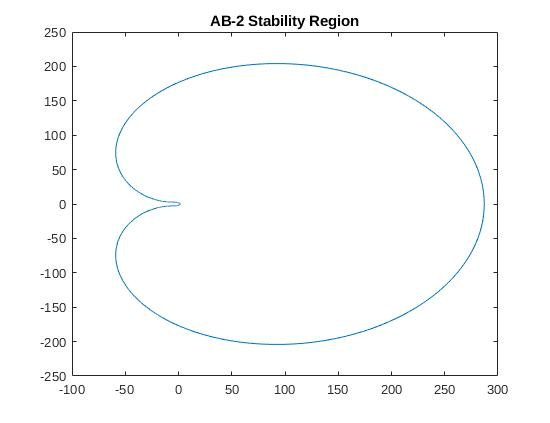
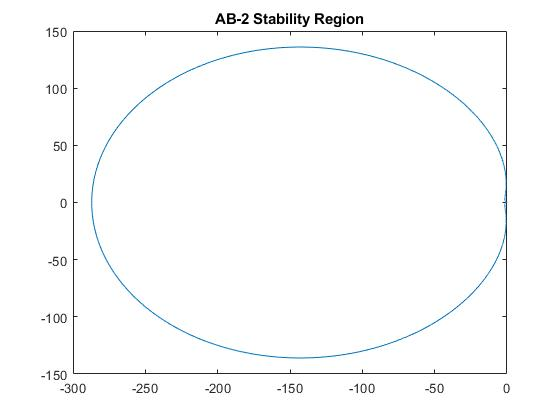
Resubmitted HW7

diff --git a/p7/p7.m b/p7/p7.m
@@ -1,27 +1,30 @@
 % Problem 7: Written by Josh Humphrey
-N = 10000;
-period = 1;
-R = 28;
-fx = linspace(1,period,N);
-fy = linspace(1,period,N);
-fz = linspace(1,period,N);
-k = linspace(1,period,N);
-x = linspace(1,period,N);
-y = linspace(1,period,N);
-z = linspace(1,period,N);
+N = 10000001;
+t = linspace(0,15,N+1);
+T = 0.0001;
+
+x = zeros(1,N);
+y = zeros(1,N);
+z = zeros(1,N);
+
+fx = zeros(1,N);
+fy = zeros(1,N);
+fz = zeros(1,N);
+
 x(1) = 1;
 y(1) = 2;
 z(1) = 10;
 
-for k = 1:N-4
-    fx(k) = 10*(y(k)-x(k));
-    fy(k) = -x(k)*z(k)+R*x(k)-y(k);
-    fz(k) = x(k)*y(k)-(8/3)*z(k);
+for k = 1:N-5
+    fx(k+3)= 10*(y(k)-x(k));
+    fy(k+3)= -x(k)*z(k)+28*x(k)-y(k);
+    fz(k+3)=  x(k)*y(k)-(8/3)*z(k);
     
-    x(k+3)= x(k+2)+((23/12)*fx(k+2)-(4/3)*fx(k+1)+(5/12)*fx(k));
-    y(k+3)= y(k+2)+((23/12)*fy(k+2)-(4/3)*fy(k+1)+(5/12)*fy(k));
-    z(k+3)= z(k+2)+((23/12)*fz(k+2)-(4/3)*fz(k+1)+(5/12)*fz(k));
+    x(k+4)= x(k+3)+ (T./24)*(55*fx(k+3)-59*fx(k+2)+37*fx(k+1)-9*fx(k));
+    y(k+4)= y(k+3)+ (T./24)*(55*fy(k+3)-59*fy(k+2)+37*fy(k+1)-9*fy(k));
+    z(k+4)= z(k+3)+ (T./24)*(55*fz(k+3)-59*fz(k+2)+37*fz(k+1)-9*fz(k));
 end
 
+figure(1)
 plot3(x,y,z)
 title('AB-4 Simulation of the Lorenz System')

diff --git a/p10/p10.m b/p10/p10.m
@@ -20,14 +20,14 @@ title('Frequency Response (Angle)')
 
 %% Part C %%
 clear
-N = 10000
+N = 10000;
 Omega=linspace(0,2*pi,N+1);      %Set up vector of Omega
 z=exp(1i*Omega);                  %Define z on unit circle
 T=0.001;
-H=((z.^5-1.89353*z.^4+1.70189*z.^3-0.843832*z.^2+0.2302*z-0.0272007)./(0.297046*z.*(z.^4-0.982666*z.^3+0.712641*z.^2-0.221309*z+0.0553271)));
+w=((z.^5-1.89353*z.^4+1.70189*z.^3-0.843832*z.^2+0.2302*z-0.0272007)./(0.297046*z.*(z.^4-0.982666*z.^3+0.712641*z.^2-0.221309*z+0.0553271))).*(12*(z.^2).*(z-1)./(23*(z.^2)-16*z+5));
 
 figure(2)
-plot(real(H),imag(H));
+plot(real(w),imag(w));
 title('AB-3 Stability Region') 
 
 %% Part D %%
@@ -37,7 +37,7 @@ Omega=linspace(0,2*pi,N+1);
 z=exp(1i*Omega); 
 
 for T = 0.1:0.1:1
-    w = T*((z.^5-1.89353*z.^4+1.70189*z.^3-0.843832*z.^2+0.2302*z-0.0272007)./(0.297046*z.*(z.^4-0.982666*z.^3+0.712641*z.^2-0.221309*z+0.0553271)));
+    w = T*((z.^5-1.89353*z.^4+1.70189*z.^3-0.843832*z.^2+0.2302*z-0.0272007)./(0.297046*z.*(z.^4-0.982666*z.^3+0.712641*z.^2-0.221309*z+0.0553271))).*(12*(z.^2).*(z-1)./(23*(z.^2)-16*z+5));
     hold on
     figure(3)
     plot(real(w),imag(w))

diff --git a/p9/p9.m b/p9/p9.m
@@ -20,13 +20,14 @@ title('Frequency Response (Angle)')
 
 %% Part C %%
 clear
+N = 10000;
 Omega=linspace(0,2*pi,N+1);      %Set up vector of Omega
 z=exp(1i*Omega);                  %Define z on unit circle
 T=0.001;
-H=(2.9362*z.^4-7.7069*z.^3+8.3393*z.^2-4.4174*z+1)./(.0850*z.^4);
+w=((2.9362*z.^4-7.7069*z.^3+8.3393*z.^2-4.4174*z+1)./(.0850*z.^4)).*(2*z.*(z-1)./(3*z-1));
 
 figure(2)
-plot(real(H),imag(H));
+plot(real(w),imag(w));
 title('AB-2 Stability Region') 
 
 %% Part D %%
@@ -36,7 +37,7 @@ Omega=linspace(0,2*pi,N+1);
 z=exp(1i*Omega); 
 
 for T = 0.1:0.1:1
-    w = T*((2.9362*z.^4-7.7069*z.^3+8.3393*z.^2-4.4174*z+1)./(.0850*z.^4));
+    w = T*((2.9362*z.^4-7.7069*z.^3+8.3393*z.^2-4.4174*z+1)./(.0850*z.^4)).*(2*z.*(z-1)./(3*z-1));
     hold on
     figure(3)
     plot(real(w),imag(w))

diff --git a/p7/Reed_p7.m b/p7/Reed_p7.m
@@ -1,0 +1,34 @@
+%Problem 7B
+%System Simulation
+
+N=10000001;
+t=linspace(0,15,N+1);
+T=.0001;
+
+X=zeros(1,N);
+Y=zeros(1,N);
+Z=zeros(1,N);
+FX=zeros(1,N);
+FY=zeros(1,N);
+FZ=zeros(1,N);
+
+X(1)=1;
+Y(1)=2;
+Z(1)=10;
+
+
+for k= 1:N-5
+FX(k+3)= 10*(Y(k)-X(k));
+FY(k+3)= -X(k)*Z(k)+28*X(k)-Y(k);
+FZ(k+3)=  X(k)*Y(k)-(8/3)*Z(k);
+   
+X(k+4)= X(k+3)+ (T./24)*(55*FX(k+3)-59*FX(k+2)+37*FX(k+1)-9*FX(k));
+Y(k+4)= Y(k+3)+ (T./24)*(55*FY(k+3)-59*FY(k+2)+37*FY(k+1)-9*FY(k));
+Z(k+4)= Z(k+3)+ (T./24)*(55*FZ(k+3)-59*FZ(k+2)+37*FZ(k+1)-9*FZ(k));
+end
+
+        figure (1)
+        plot3(X,Y,Z);
+        xlabel('x-values')
+        ylabel('y-values')
+        title('HW 7 - Lorenz System using AB-4') 
